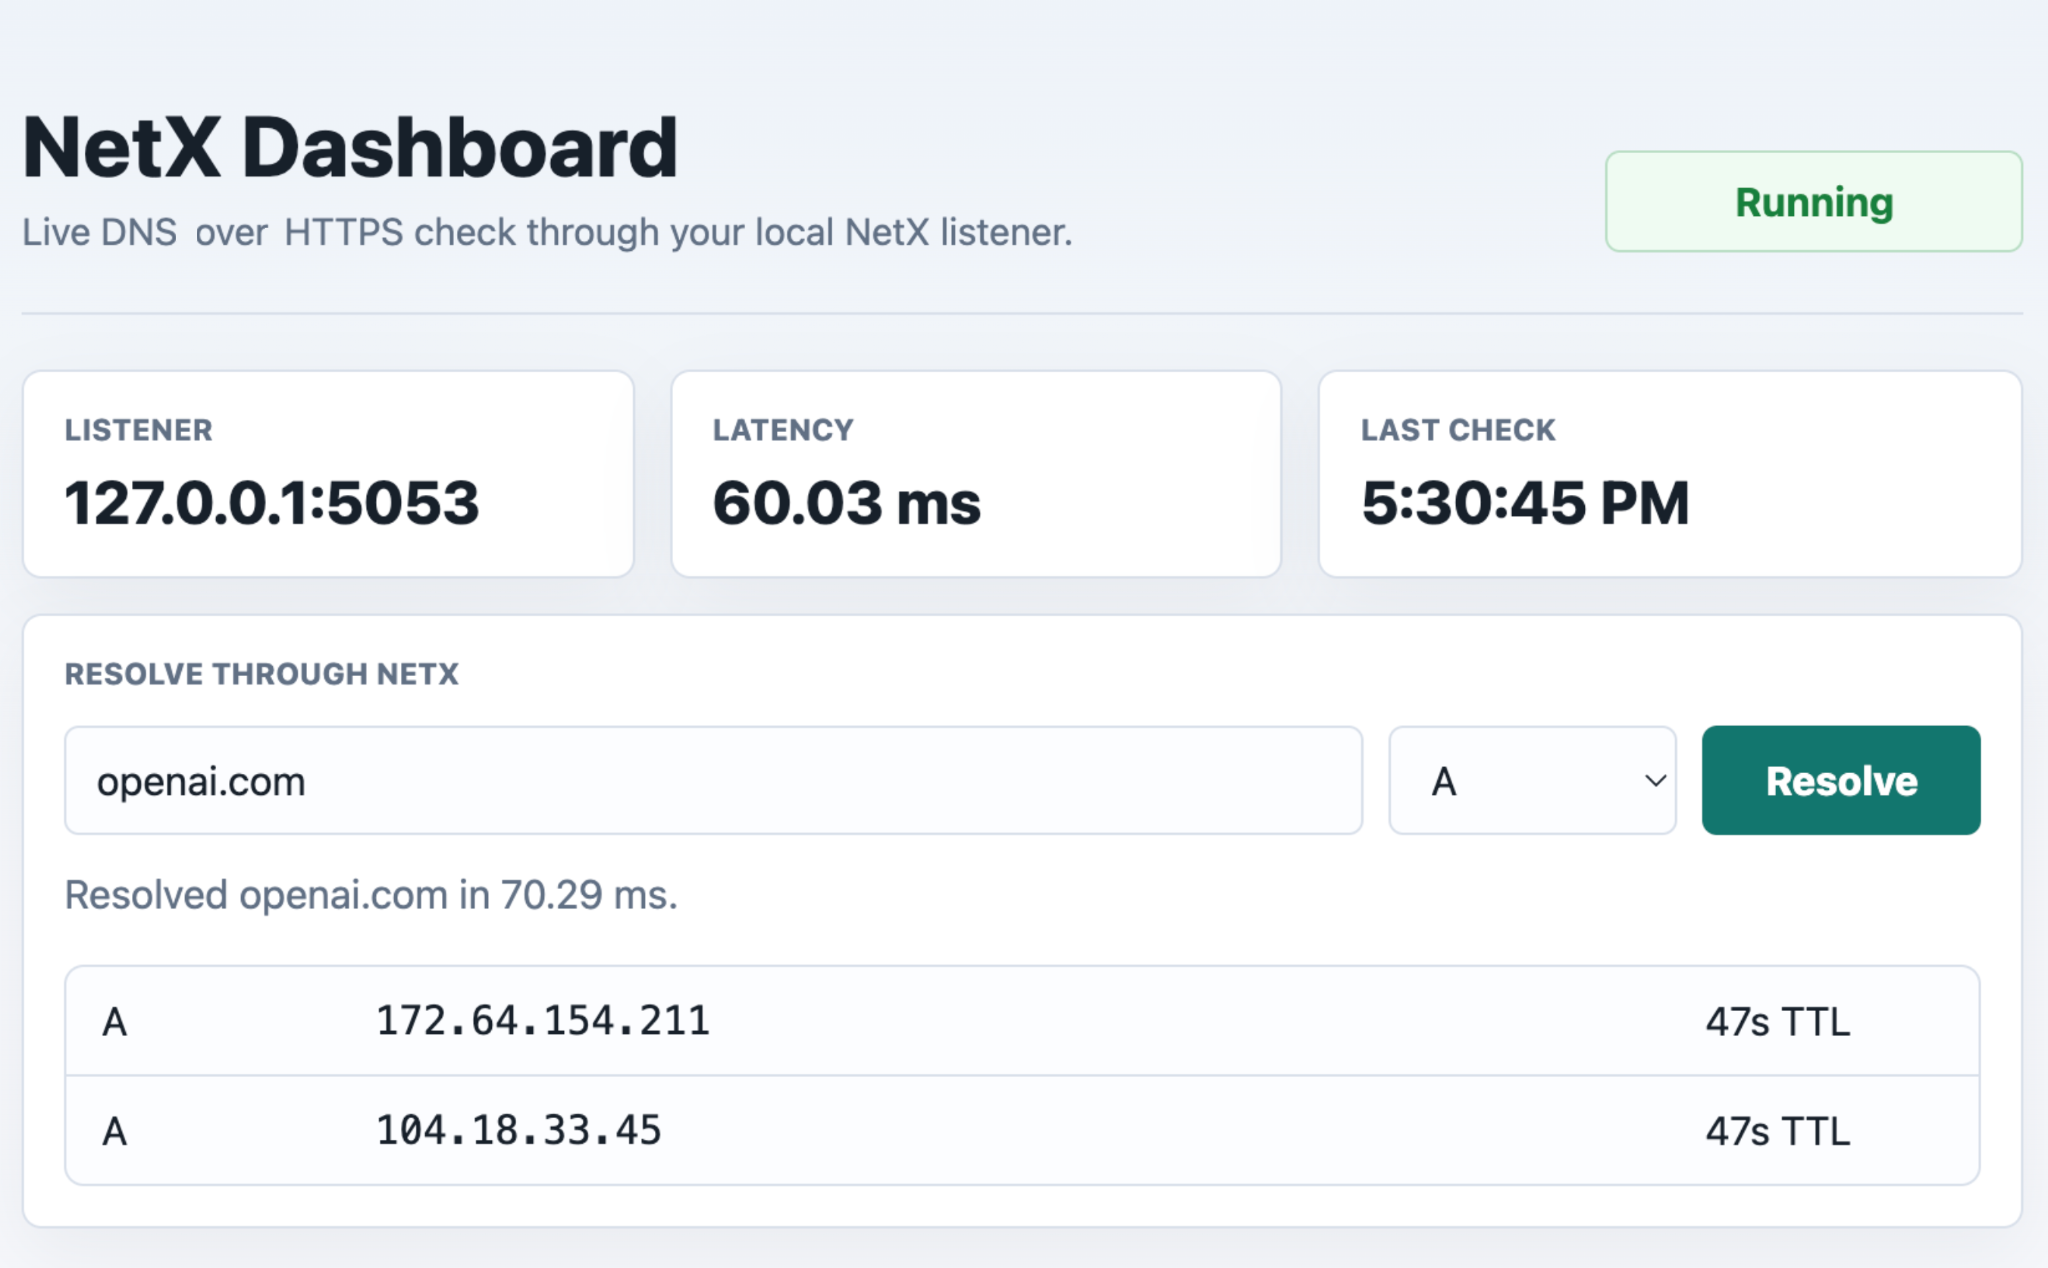
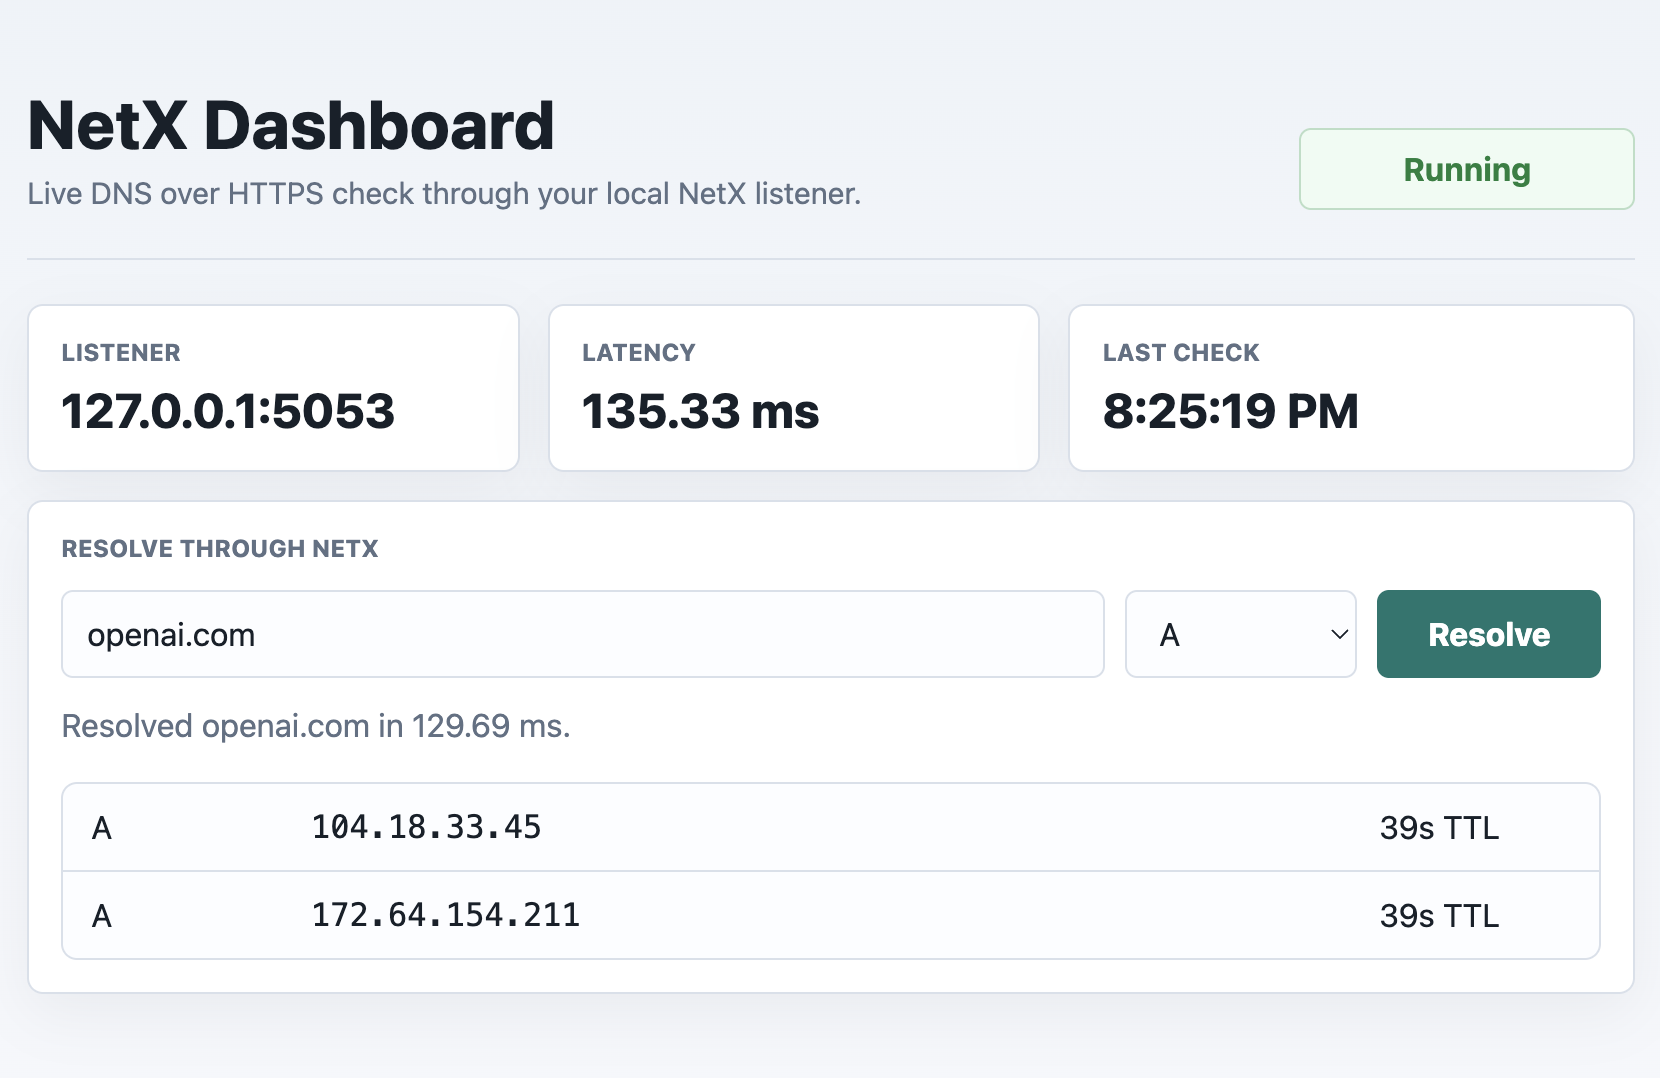
Updating Readme

diff --git a/dashboard/index.html b/dashboard/index.html
@@ -217,7 +217,7 @@
     <header>
       <div>
         <h1>NetX Dashboard</h1>
-        <p class="subtle">Live DNS-over-HTTPS check through your local NetX listener.</p>
+        <p class="subtle">Live DNS over HTTPS check through your local NetX listener.</p>
       </div>
       <div id="statusPill" class="status-pill">Checking</div>
     </header>

diff --git a/README.md b/README.md
@@ -63,8 +63,8 @@ NetX/
 ├── benchmarks/
 │   └── benchmark_ring_buffer.c
 ├── images/
-│   ├── architecture.png
-│   └── dashboard.png
+│   ├── preview-1.png
+│   └── preview-2.png
 ├── munin/
 │   ├── NetX.config
 │   └── NetX.plugin
@@ -507,4 +507,3 @@ Fallback to HTTP/1.1:
 ```bash
 ./build/NetX -x
 ```
-
